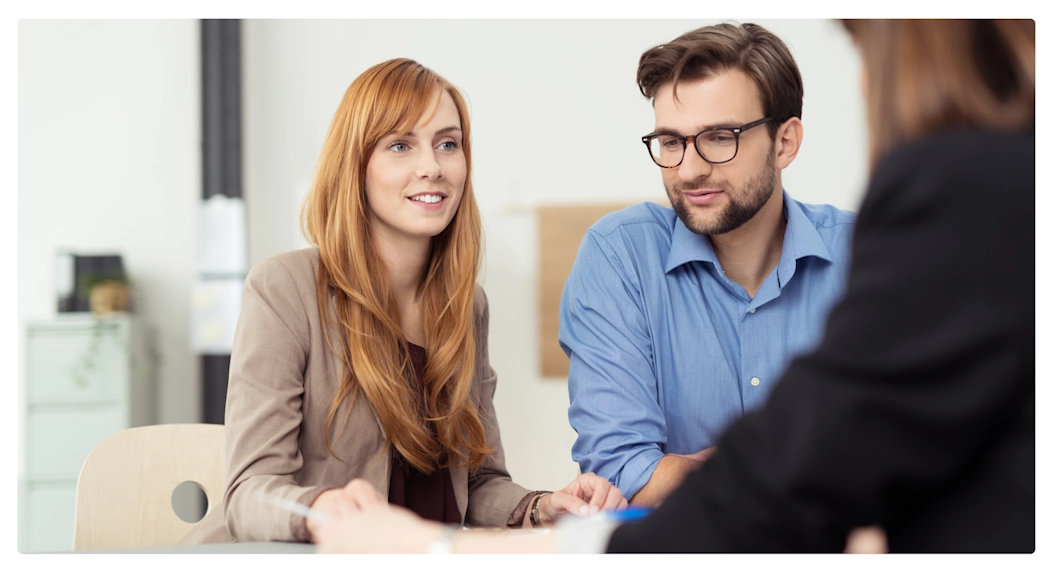
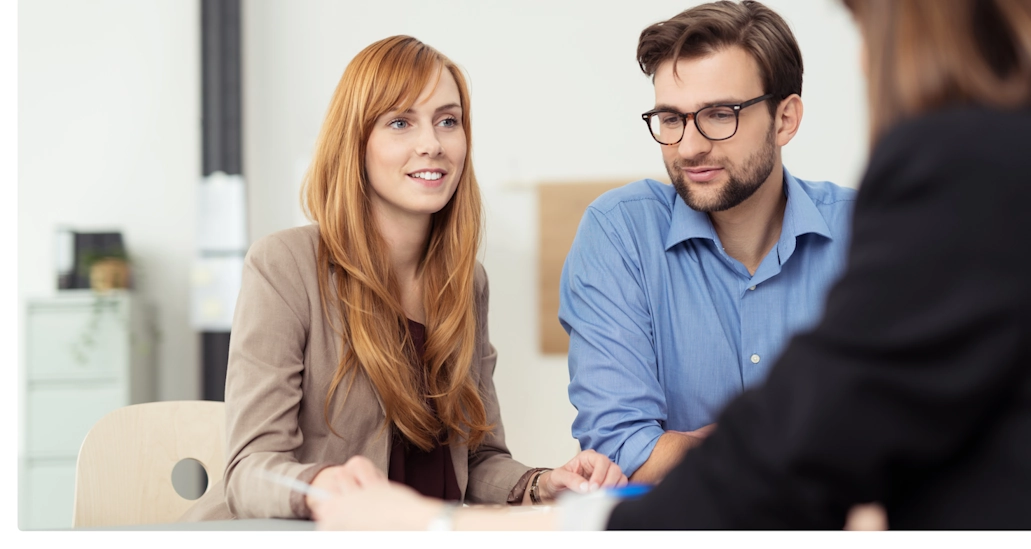
Pflegeberatung: Hero-Bild durch betriebliche.webp ersetzen, Maße angepasst
Made-with: Cursor

diff --git a/app/pflegeberatung/page.tsx b/app/pflegeberatung/page.tsx
@@ -4,8 +4,8 @@ import { Container } from "@/components/layout/Container";
 import { BetrieblichePflegeberatungSection } from "@/components/pflegeberatung/BetrieblichePflegeberatungSection";
 import { siteConfig } from "@/config/site";
 
-/** Natürliche Pixelmaße von public/images/betriebliche_pflegeberatung.webp (Alpha-Kanal) */
-const BETRIEBLICH_IMG = { w: 1053, h: 572 } as const;
+/** Natürliche Pixelmaße von public/images/betriebliche_pflegeberatung.webp (Quelle: konfigurator/betriebliche.webp, Alpha) */
+const BETRIEBLICH_IMG = { w: 1031, h: 549 } as const;
 /** 20 % kleiner als Original */
 const IMG_SCALE = 0.8;
 const IMG_W = Math.round(BETRIEBLICH_IMG.w * IMG_SCALE);
